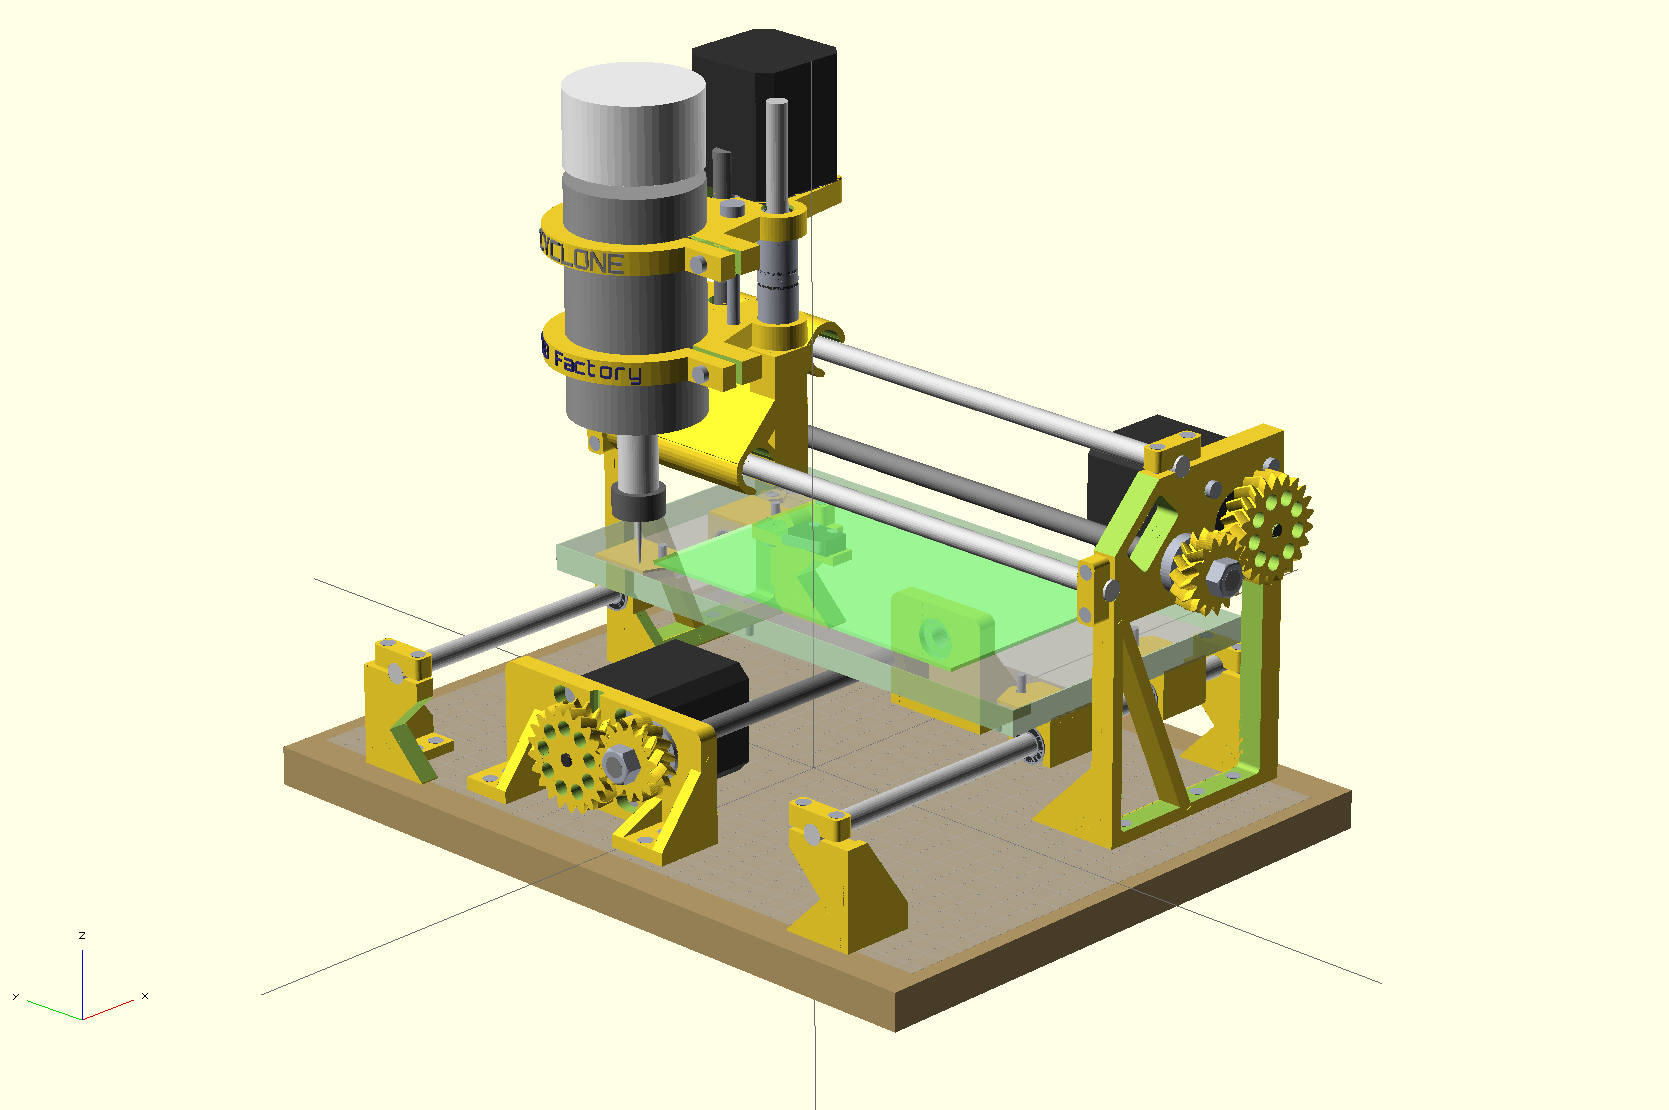
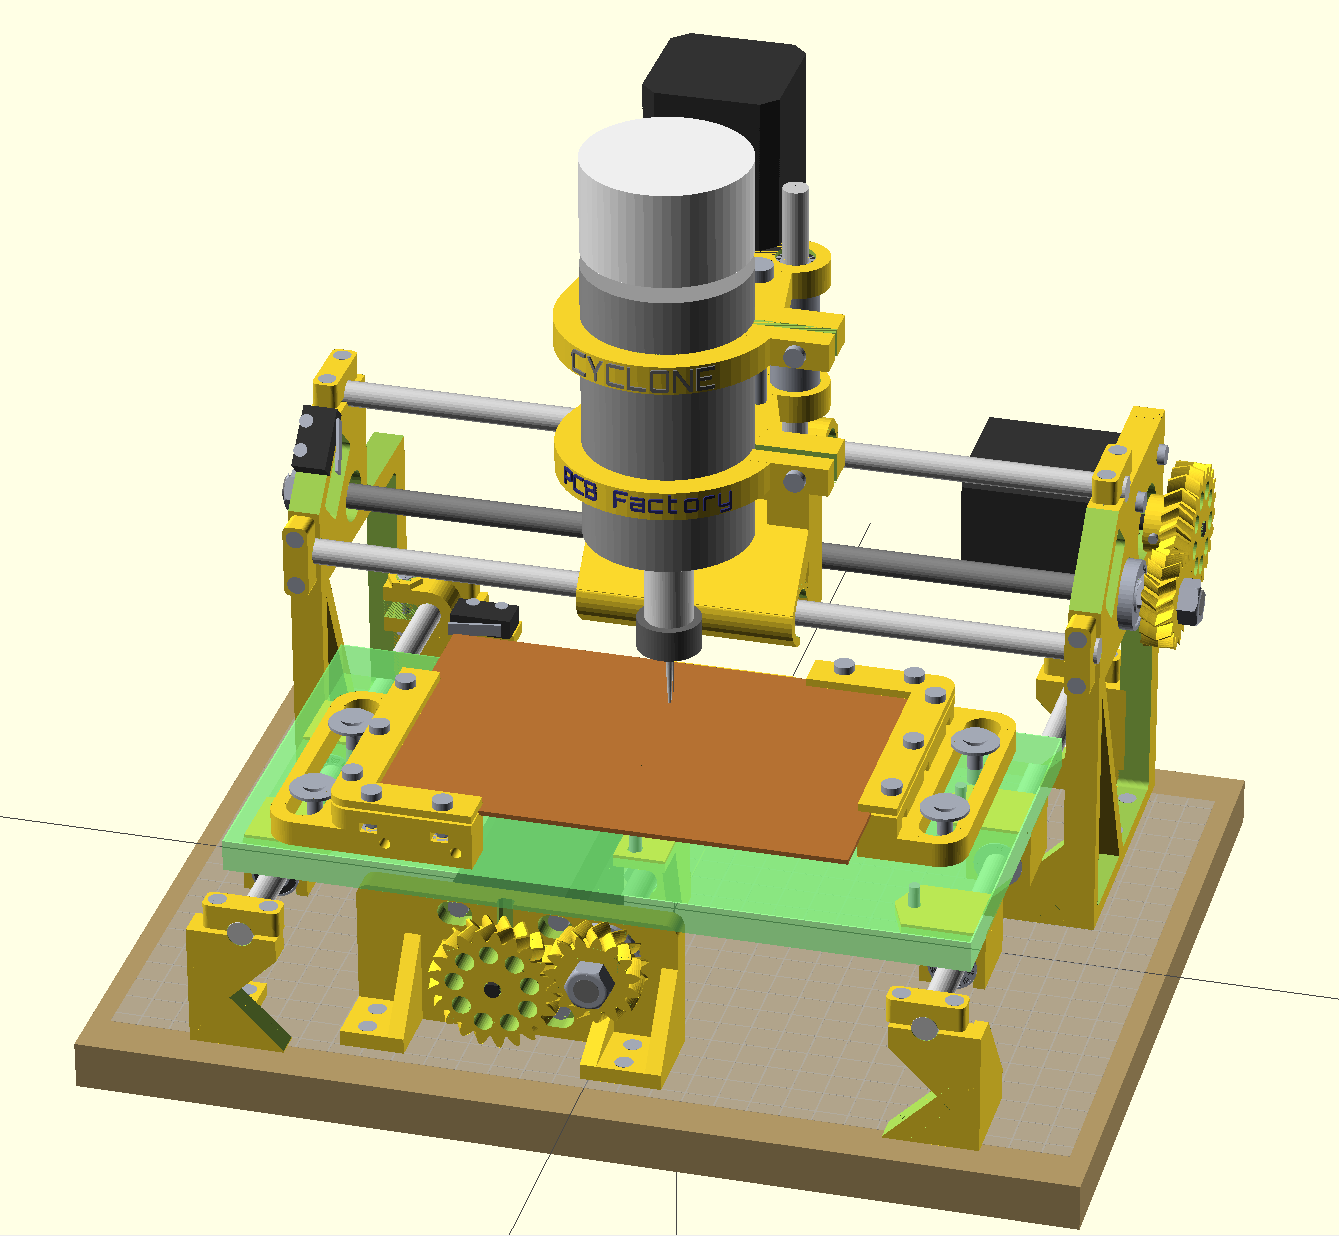
Updated Glen's renders

diff --git a/Hardware/README.md b/Hardware/README.md
@@ -1,10 +1,6 @@
 Hardware for Cyclone-PCB-Factory  
 ===================
 
-Render (v0.9.7)  
---
-![ScreenShot](https://github.com/carlosgs/Cyclone-PCB-Factory/raw/master/Media/Cyclone_render_v0.9.7.png)
-
 To-Do list  
 --  
 - Fix this: The linear bearings of the X carriage must be glued in place (use epoxy or similar) since vibrations produced by the spindle motor move the bearings out of place.  
@@ -18,6 +14,12 @@ News
 --  
 - v0.9.7 has an improved Z carriage: uses much less plastic, it holds the spindle tightly and leaves more metal surface exposed for better cooling.  
 - v0.9.6b has a robust Y axis motor stand (improvement suggested and tested by **Yopero**), and the Z carriage now shows the name of the machine (how cool is that? :P)  
+
+Render (v0.9.7)  
+--
+![ScreenShot](https://github.com/carlosgs/Cyclone-PCB-Factory/raw/master/Media/Cyclone_render_v0.9.7_full.png)  
+![ScreenShot](https://github.com/carlosgs/Cyclone-PCB-Factory/raw/master/Media/Cyclone_render_v0.9.7_full_explodedView.png)  
+**Thanks a lot to Glen Chung for the fully assembled renders**  
 
 Notes  
 --  
@@ -34,8 +36,9 @@ License: **Attribution - Share Alike - Creative Commons (<http://creativecommons
 Authors (Hardware):  
 --
 - **Carlos García Saura (Carlosgs <http://carlosgs.es>)** (original design)  
-- **Daniel Garrido (yOPERO <http://yopero-tech.blogspot.com.es/>)** (hardware improvements)  
+- **Daniel Garrido (yOPERO <https://github.com/yOPERO> & <http://yopero-tech.blogspot.com.es/>)** (hardware improvements)  
 - **Harry Binnema** (hardware improvements)
+- **Glen Chung (<https://github.com/glenchung>)** (Full assembly in OpenScad)
 
 Special thanks  
 --  
